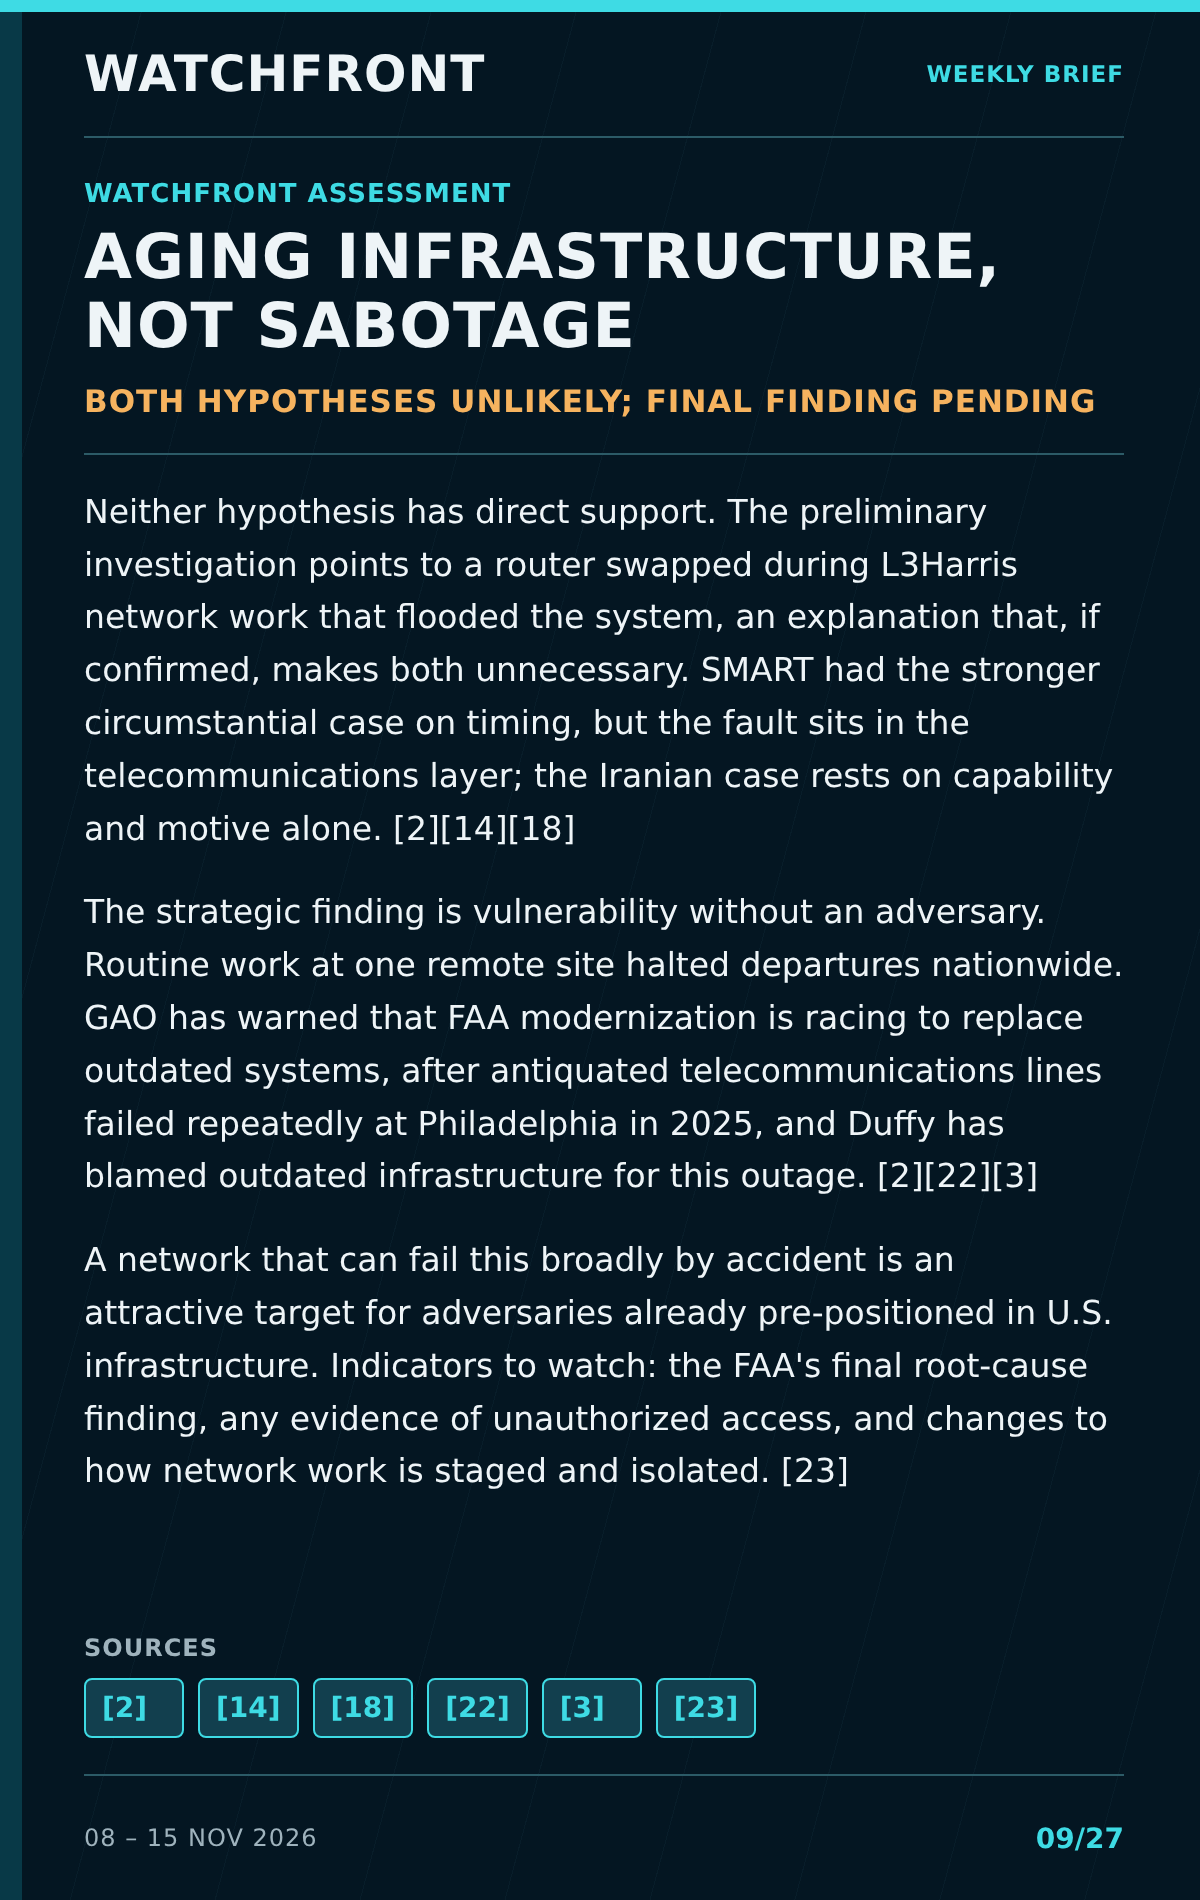
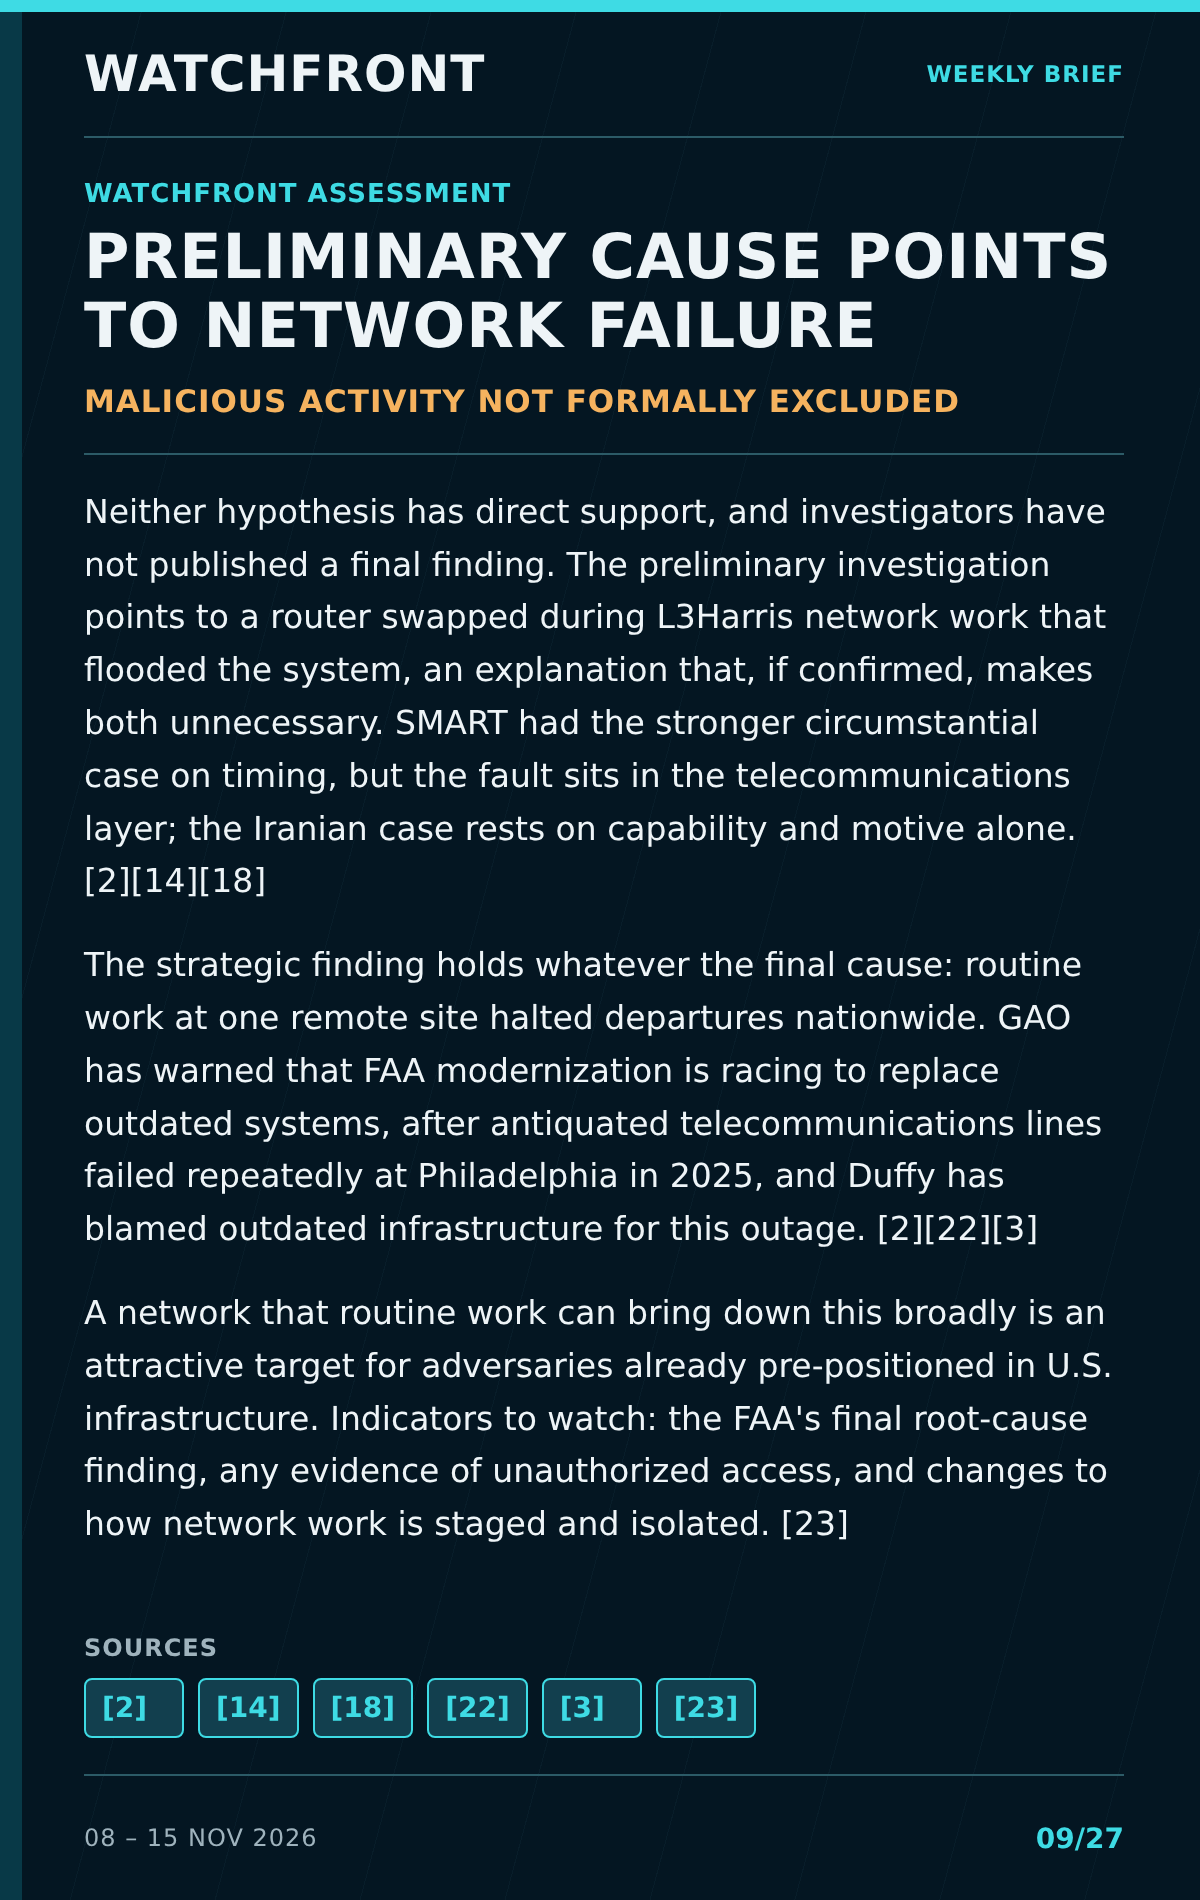
Revision 2: owner's headline corrections; record superseded revisions
Taiwan, FAA-verdict and central-assessment headlines corrected; overview
FAA wording no longer implies malicious activity was ruled out. Revision 2
snapshot rebuilt (unpublished). archive/REVISIONS.md records that
revision 1 stays frozen and recoverable at its archive address.

Claude-Session: https://claude.ai/code/session_01V4vTxSLmE1BYbD2ddQopX8

Changed region(s): [[0.0617, 0.2484, 0.925, 0.8074], [0.0617, 0.1242, 0.925, 0.2174]]

diff --git a/archive/REVISIONS.md b/archive/REVISIONS.md
@@ -1,0 +1,8 @@
+# Superseded revisions
+
+The archive index (`archive.json`) lists the newest revision of each edition. Earlier revisions of a published edition stay frozen byte-for-byte in their own folders and can still be retrieved at these addresses.
+
+| Edition | Revision | Status | Snapshot |
+|---|---|---|---|
+| `wf_2026_11_15`, Weekly Intelligence Brief 8–15 November 2026 | 1 | Published 15 Nov 2026 16:34 UTC. Superseded by revision 2, an editorial rewrite with the same facts, sources and Home ratings | [archive/editions/wf_2026_11_15-r1/brief.json](https://emmmdeeee.github.io/Watchfront-Briefs/archive/editions/wf_2026_11_15-r1/brief.json) |
+| `2026-10-13-weekly` | 2, 3 | Superseded by revision 4 | `archive/editions/2026-10-13-weekly-r2/`, `archive/editions/2026-10-13-weekly-r3/` |
